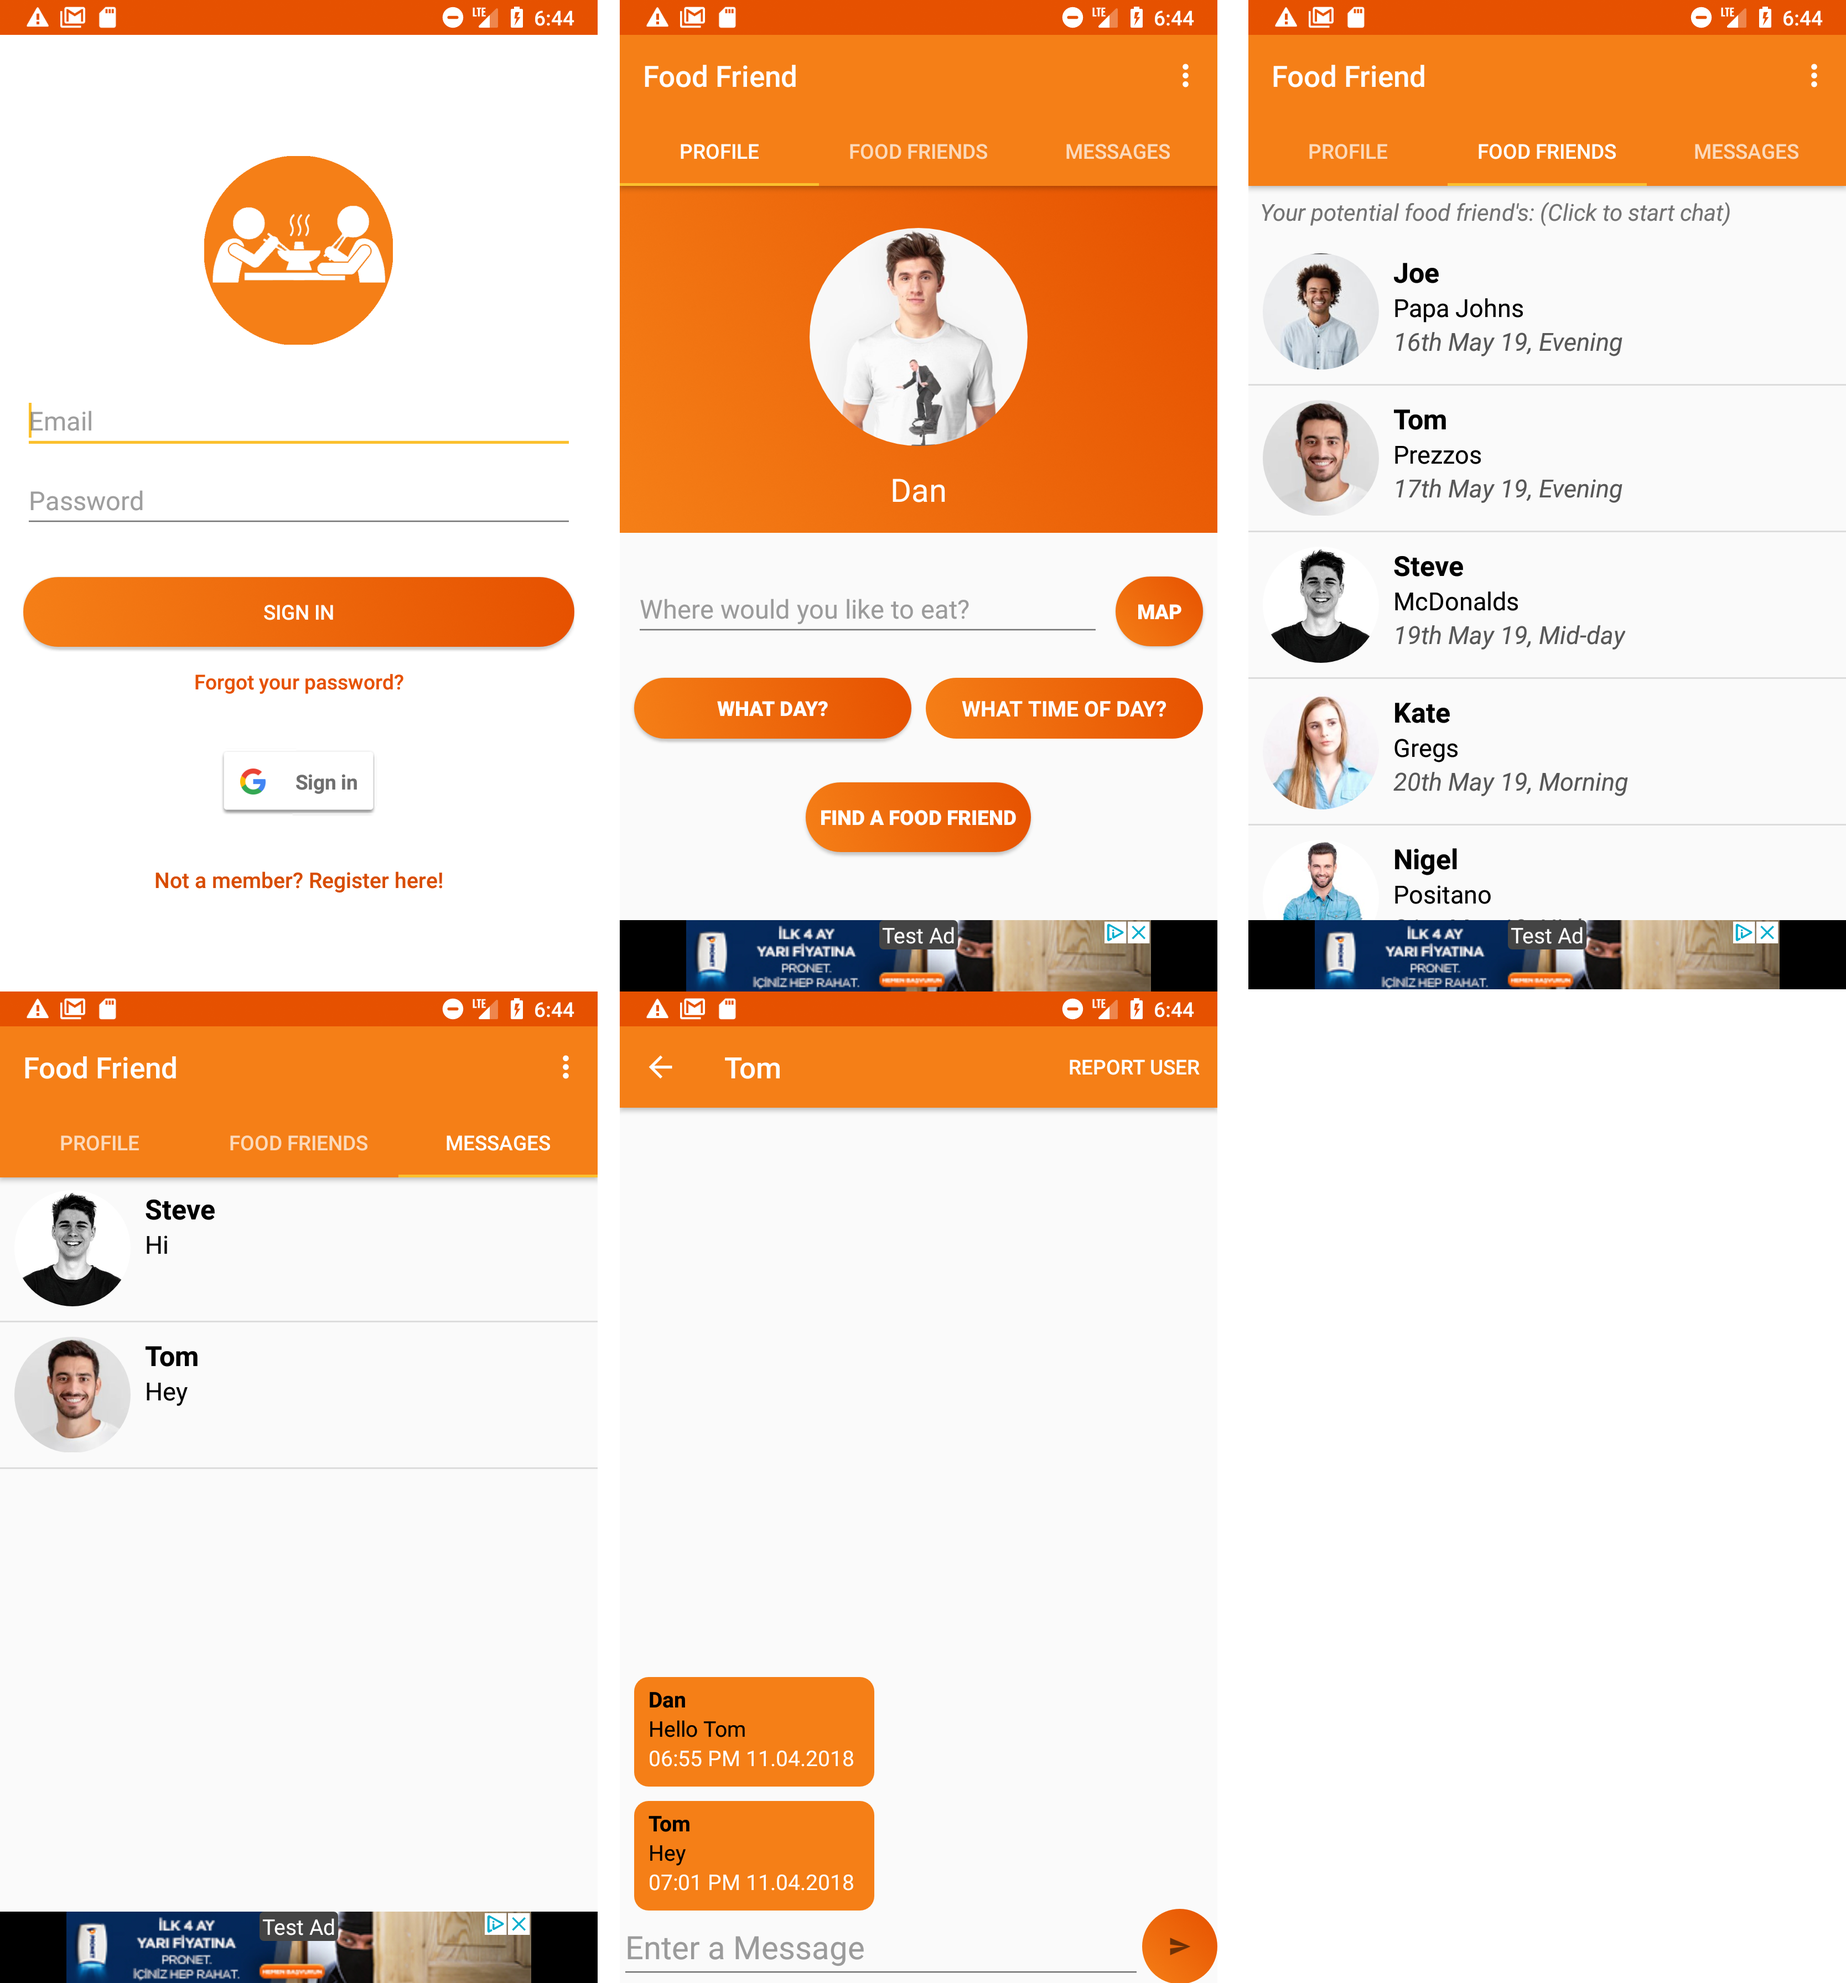
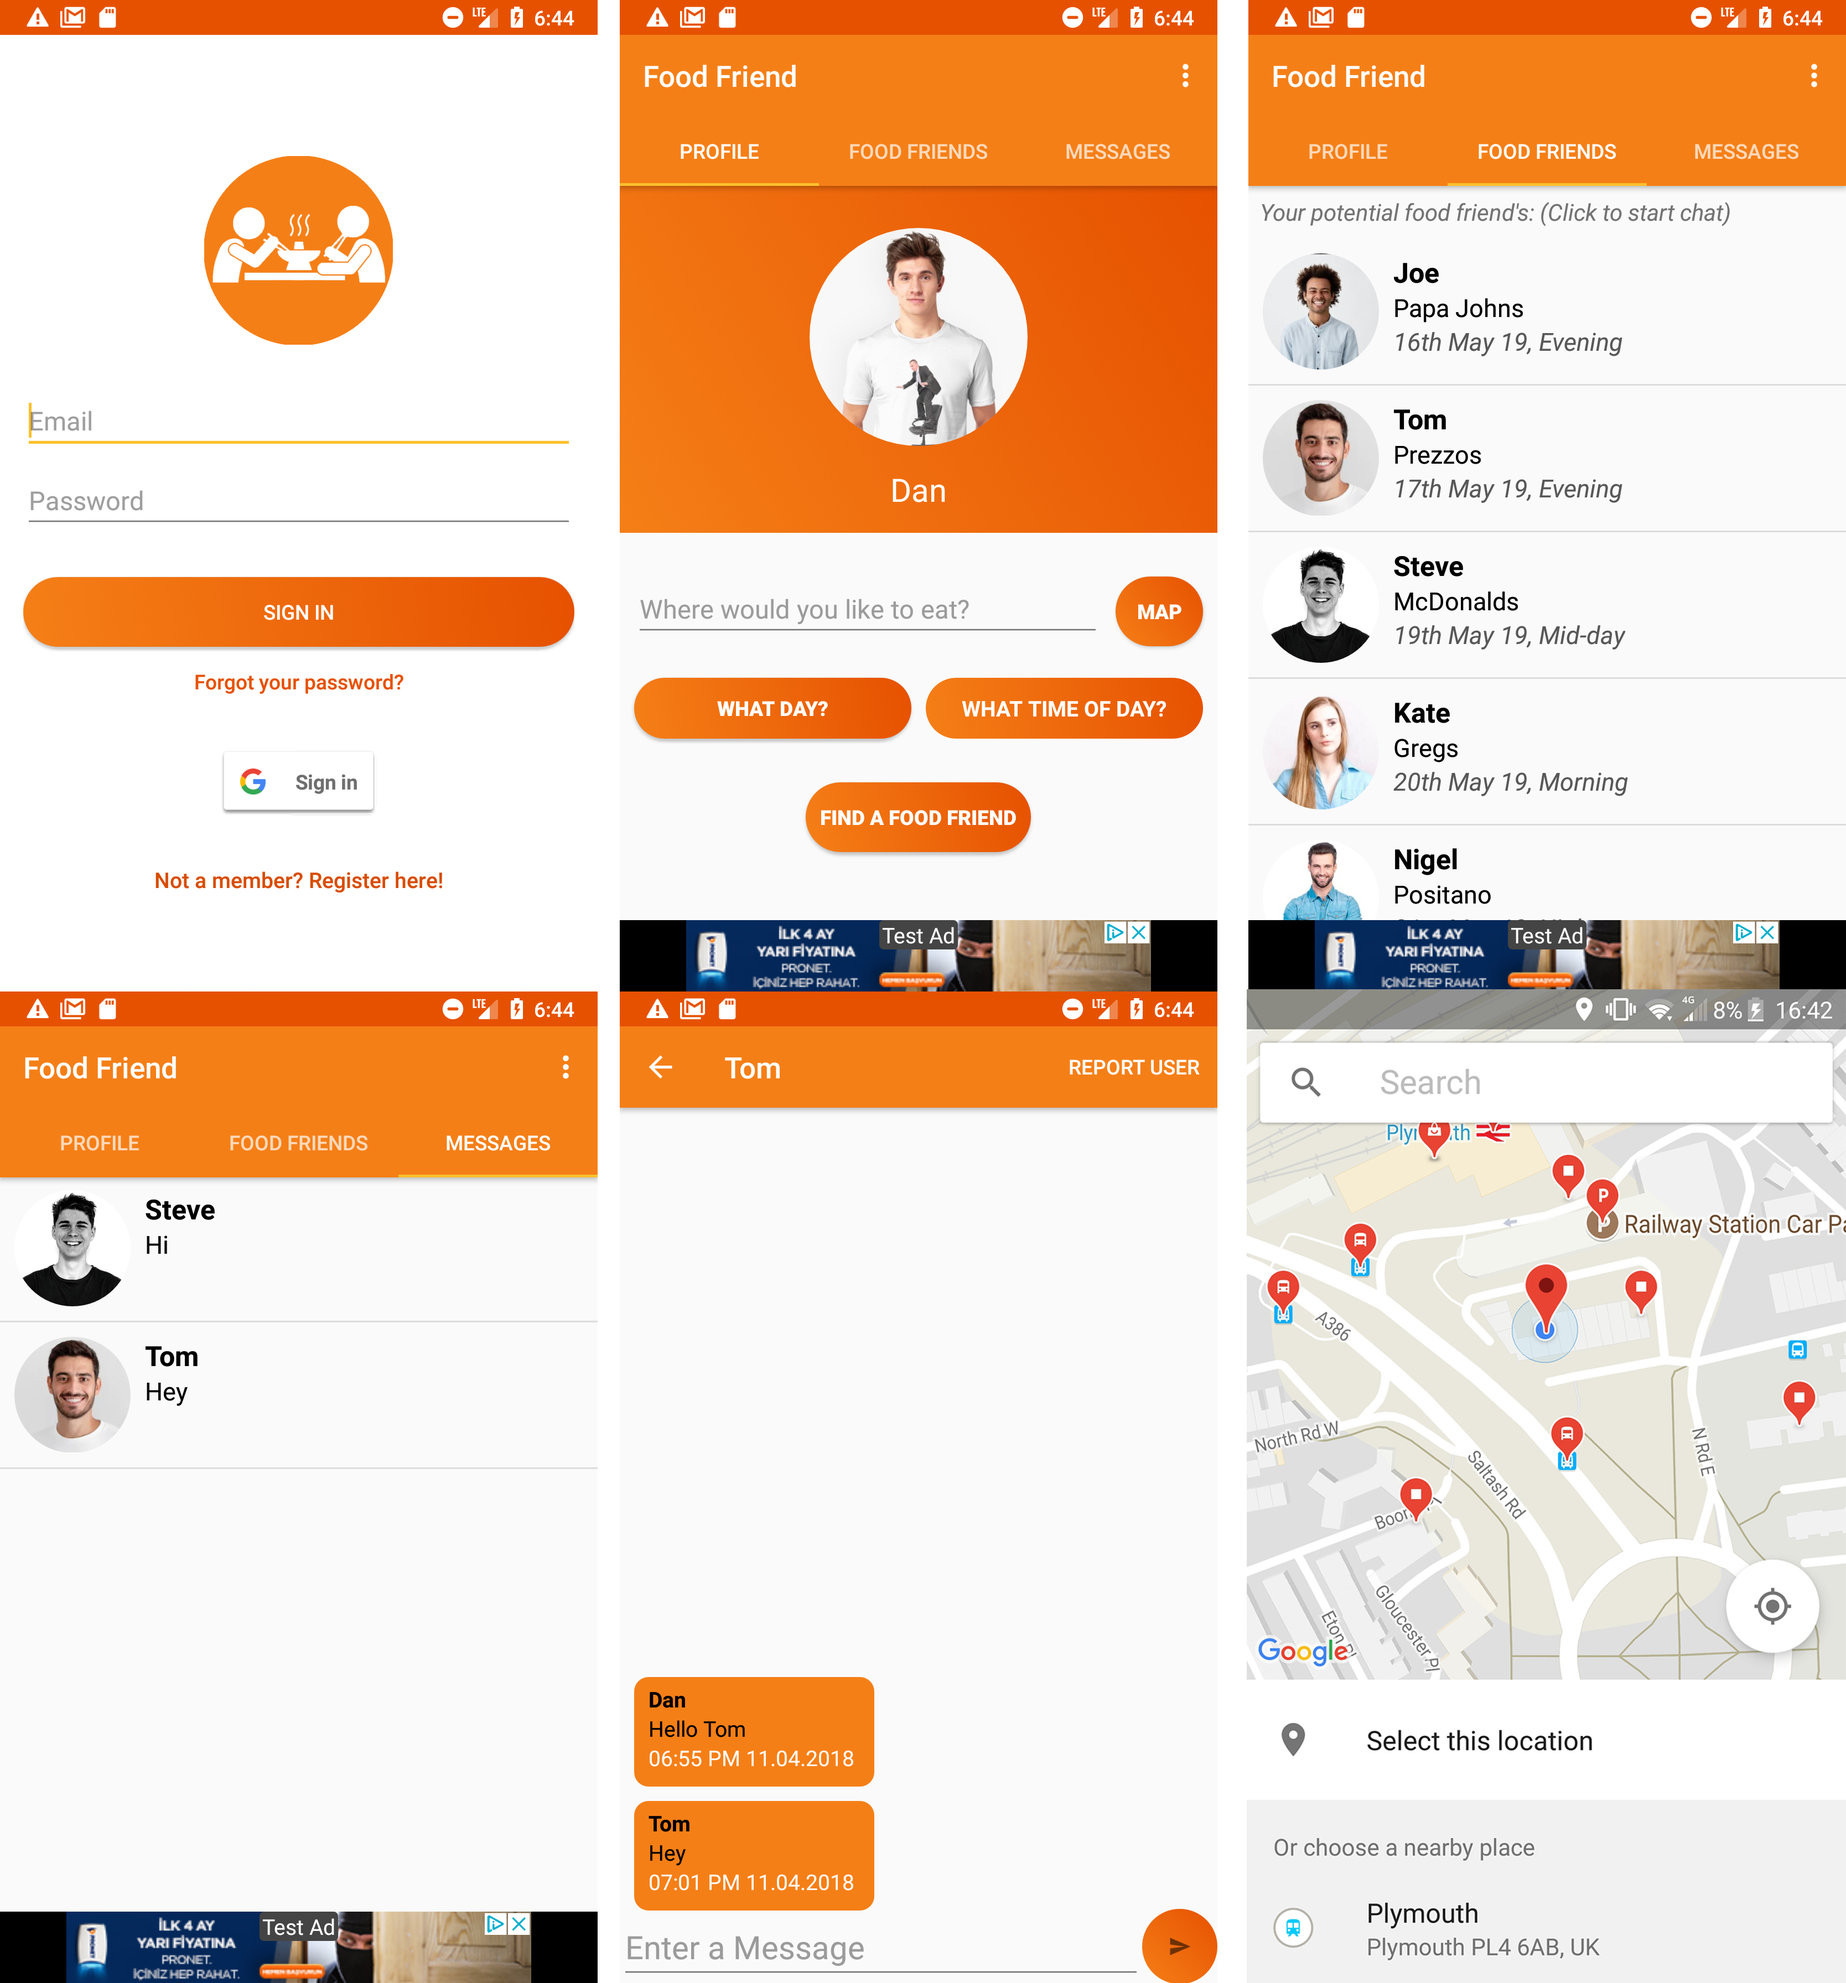
Portfolio Update
Added two new apps to portfolio, removed some unused assets/images

diff --git a/portfolio.html b/portfolio.html
@@ -34,9 +34,39 @@
             <h1 id="portfolioTitle">My Portfolio</h1>
 
             <article class="portfolioItem">
+              <h2 class="articleHead">"Satisfying To-do List" - Android Mobile Application</h2>
+              <p class="articleText">
+                The purpose of this project was to create a an application that essentially hacks the reward center of the brain in order to complete simple mundane tasks, it does this by playing a rewarding sound effect that causes a small dopamine spike in the brain each time a task is completed. When all tasks are completed, all tasks are displayed green which creates an effect that some users may find satisfying.
+              </p>
+              <img class="blogImage" src="img/portfolio/todolistapp.png"/>
+              <p class="articleText">
+                This app was designed to be incredible simple and easy to use, when no tasks are completed, there is no colour on screen, this means users are required to complete their daily tasks in order to add colour to the screen.
+              </p>
+              <p class="articleText">
+                Coming soon on the Google Play Store.
+              </p>
+            </article>
+
+            <article class="portfolioItem">
+              <h2 class="articleHead">"Cold War Barracks" - Android Mobile Application</h2>
+              <p class="articleText">
+                This app was created to allow fans of the upcoming Call of Duty game to see stats and information about in game items, before the game is released, it served as the only place to see the information.
+              </p>
+              <img class="blogImage" src="img/portfolio/coldwar.png"/>
+              <p class="articleText">
+                 It was designed to use a clean and intuitive layout, to make it as simple as possible to see and find the information displayed. Created in Android Studio, written in Java.
+              </p>
+              <img class="blogImage" src="img/portfolio/coldwardesign.jpg"/>
+              <p class="articleText">
+                This app can be found on the Google Play Store using the link below:
+              </p>
+              <a href="https://play.google.com/store/apps/details?id=com.dwestaway.coldwarbarracks">Cold War Barracks</a>
+            </article>
+
+            <article class="portfolioItem">
               <h2 class="articleHead">"Food Friend" - Android Mobile Application</h2>
               <p class="articleText">
-                  Find and meet people that share a common interest in food. Coded in Android Studio for my university final year project. It offers a fully functioning account and login system, with the ability to discover other users and send messages to them. Firebase was used for the backend of this project to store all user data.
+                  Find and meet people that share a common interest in food. Coded in Android Studio (Java) for my university final year project. It offers a fully functioning account and login system, with the ability to discover other users and send messages to them, users can also upload and crop local images all within the app, "Google Place Picker" is also implemented to allow users to find locations on Google Maps. Firebase was used for the backend of this project to store all user data.
               </p>
               <img class="blogImage" src="img/portfolio/foodfriend.png"/>
             </article>
